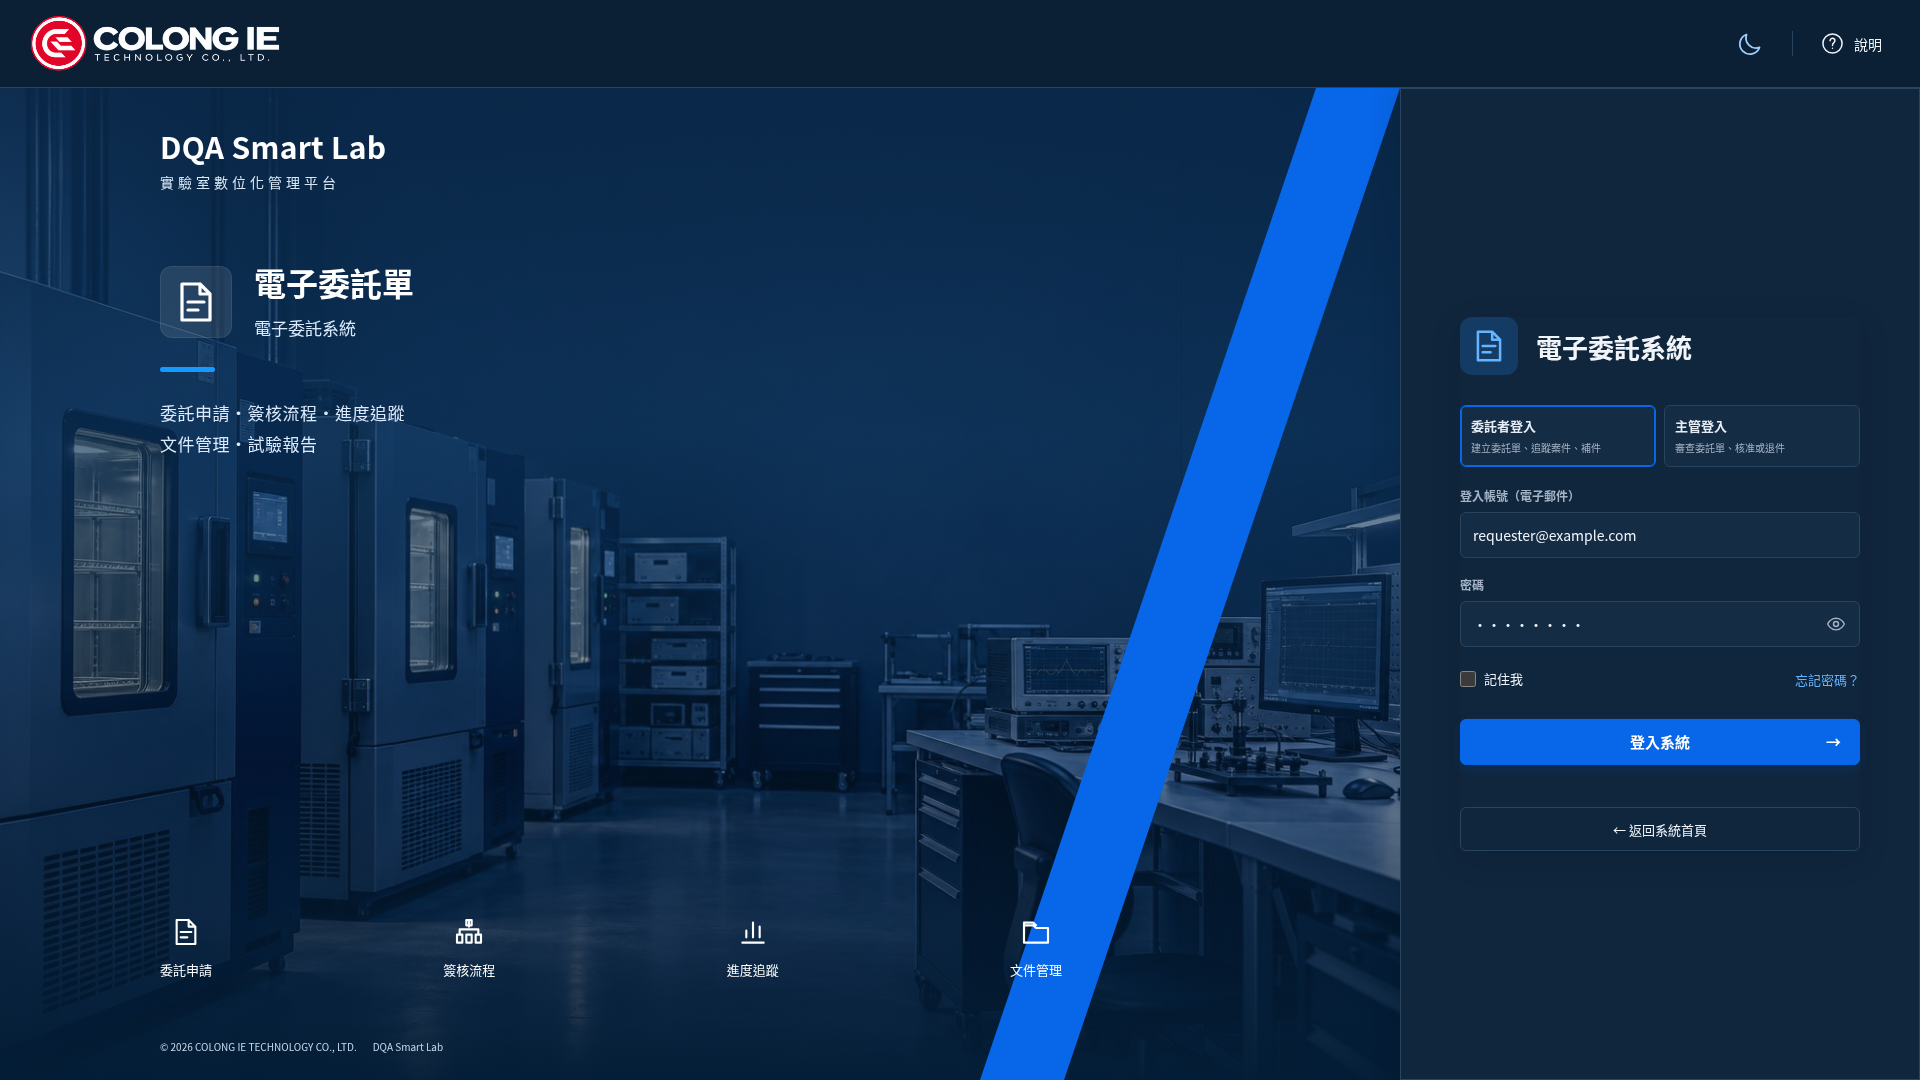
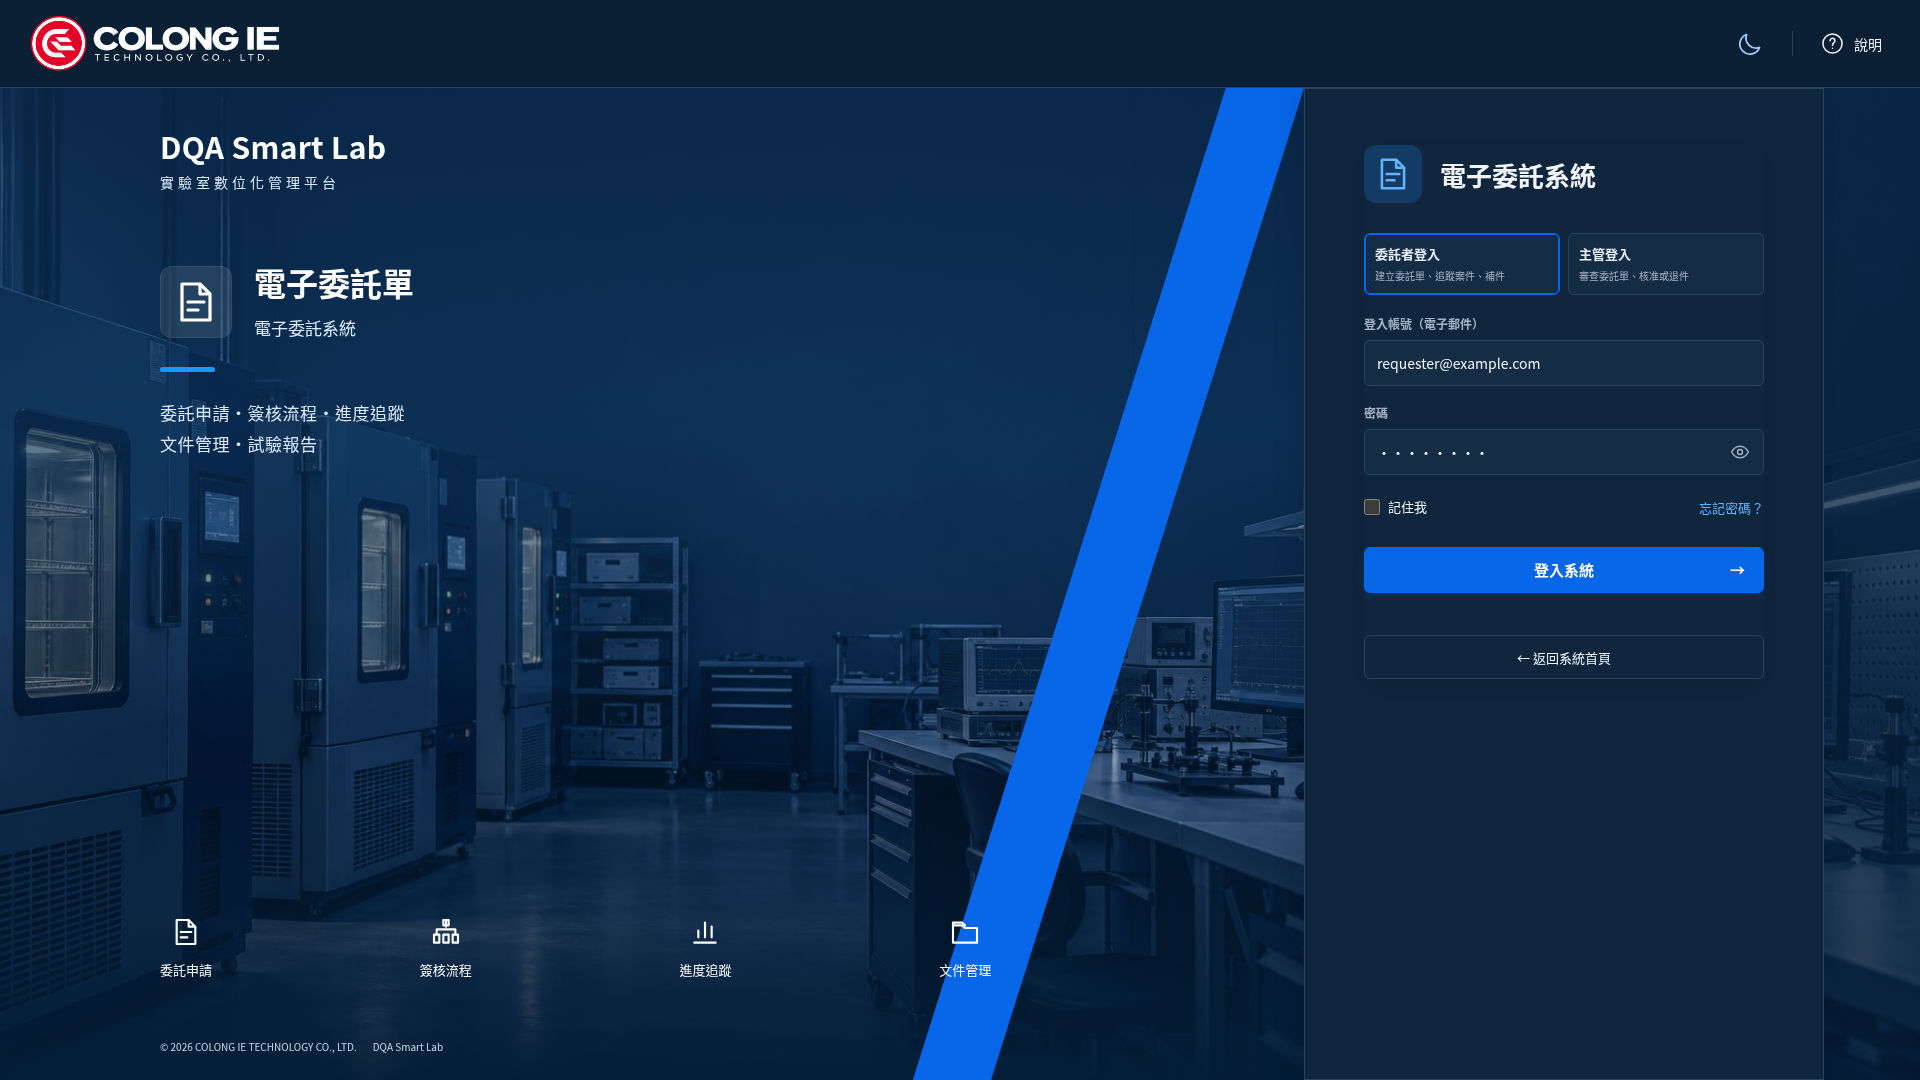
Inset login panel with narrow background strip and top aligned form

diff --git a/e2e/login-layout.spec.js b/e2e/login-layout.spec.js
@@ -8,7 +8,7 @@ for(const system of ['request','lms','lab','validation']){
    const card=page.locator(system==='request'?'.rq-login-card':system==='lab'?'.lab-login-card':'.login-card');await expect(card.locator('img,.company-brand-logo')).toHaveCount(0);await expect(card.locator(':scope>.eyebrow,:scope>.rq-eyebrow,:scope>.lab-eyebrow,:scope>.login-description,:scope>.lab-login-description,:scope>.rq-muted,:scope>.login-note,:scope>.lab-login-note,:scope>.rq-demo-hint')).toHaveCount(0);
    const logo=page.locator('header .company-brand-logo img');await expect(logo).toHaveCount(1);await expect(logo).toHaveAttribute('src',/colong-ie-transparent.png$/);expect(await logo.evaluate(el=>el.complete&&el.naturalWidth>0)).toBe(true);
    const box=await card.boundingBox();expect(box.width).toBeLessThanOrEqual(430);expect(box.x).toBeGreaterThanOrEqual(0);expect(box.x+box.width).toBeLessThanOrEqual(width);expect(await page.evaluate(()=>document.documentElement.scrollWidth<=innerWidth)).toBe(true);
-   const header=await page.locator('.enterprise-login-header').boundingBox(),panel=await page.locator('.enterprise-login-panel').boundingBox();if(width>720){expect(panel.y).toBe(header.height);expect(panel.x).toBeGreaterThan(width*.45);expect(panel.x+panel.width).toBe(width);}else{expect(panel.width).toBe(width);}
+   const header=await page.locator('.enterprise-login-header').boundingBox(),panel=await page.locator('.enterprise-login-panel').boundingBox();if(width>720){expect(panel.y).toBe(header.height);expect(panel.x).toBeGreaterThan(width*.45);const rightGap=width-panel.x-panel.width;expect(rightGap).toBeGreaterThanOrEqual(24);expect(rightGap).toBeLessThanOrEqual(96);const content=await page.locator('.enterprise-panel-content').boundingBox();expect(content.y-panel.y).toBeLessThanOrEqual(57);}else{expect(panel.width).toBe(width);}
    if(width===1366)await page.screenshot({path:test.info().outputPath(`${system}-slim-login.png`),fullPage:true});
   }
   if(system==='lms'){await expect(page.getByLabel('登入帳號（電子郵件）')).toHaveValue('level1@example.com');await expect(page.getByLabel('密碼',{exact:true})).toHaveValue('demo1234');}

diff --git a/src/EnterpriseLogin.css b/src/EnterpriseLogin.css
@@ -55,3 +55,8 @@
 .enterprise-system-name{font-weight:700}
 
 #root .enterprise-login .enterprise-preview-note{font-size:13px;line-height:1.7;padding:12px 14px;margin:0 0 20px;border:1px solid var(--enterprise-border);border-radius:6px;background:var(--soft);color:var(--enterprise-secondary)}
+/* Keep a small view of the laboratory to the right of the inset login panel. */
+@media(min-width:721px){
+ .enterprise-login-body{padding-right:clamp(24px,5vw,96px);box-sizing:border-box;background:linear-gradient(#0a294ab8,#041d36d9),url('/branding/laboratory-login.jpg') right center/cover no-repeat}
+ #root .enterprise-login .enterprise-login-panel{align-items:flex-start;padding-top:56px}
+}

diff --git a/docs/slim-login-panel.md b/docs/slim-login-panel.md
@@ -1,11 +1,12 @@
 # 登入面板瘦身與直角調整
 
-依使用者提供的電子委託登入截圖，縮窄共用右側登入面板並移除左上、左下圓角。套用電子委託、LMS、Lab 與 DQA 展示入口，深淺色一致。
+依使用者提供的電子委託登入截圖，縮窄共用右側登入面板並移除左上、左下圓角，再依標註箭頭將面板左移、表單上移。套用電子委託、LMS、Lab 與 DQA 展示入口，深淺色一致。
 
 - 桌面面板依視窗寬度取 34%，最窄 360px、最寬 520px；721–1000px 視窗使用 350px 面板。
+- 桌面面板右側保留 `clamp(24px, 5vw, 96px)` 的實驗室背景窄條，1920px 時為 96px；表單由垂直置中改為距面板頂部約 56px。手機不加側邊留白。
 - 1920px 視窗實測：面板由約 784px 調整為 520px，左上及左下圓角均為 0px。
 - 手機維持單欄全寬，移除圓角及原先向上覆疊 10px 的樣式，品牌區與登入區平直接合。
-- 僅修改 `src/EnterpriseLogin.css`；登入驗證、帳號、角色及欄位功能沿用既有實作。
+- 產品樣式僅修改 `src/EnterpriseLogin.css`，並更新既有登入排版測試以檢查右側窄留白及表單頂部位置；登入驗證、帳號、角色及欄位功能沿用既有實作。
 
 ## 同尺寸畫面比較
 
